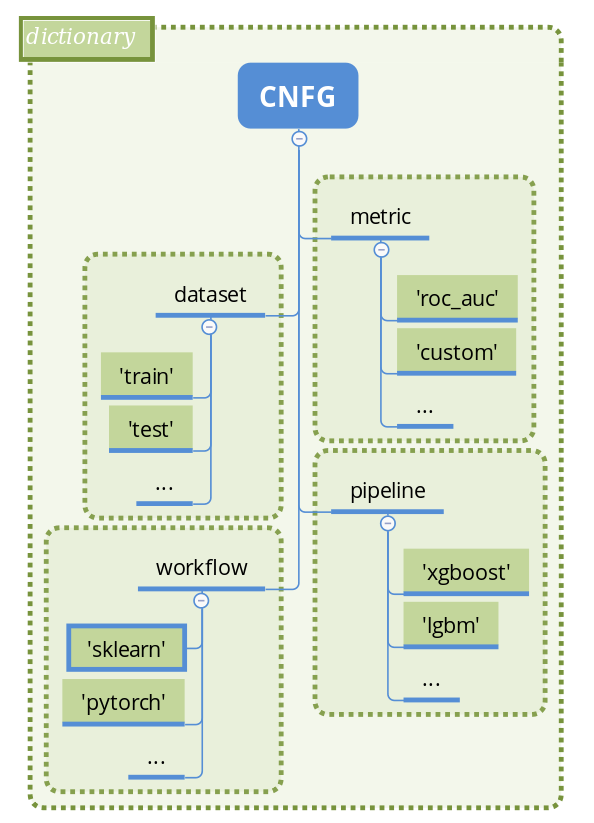
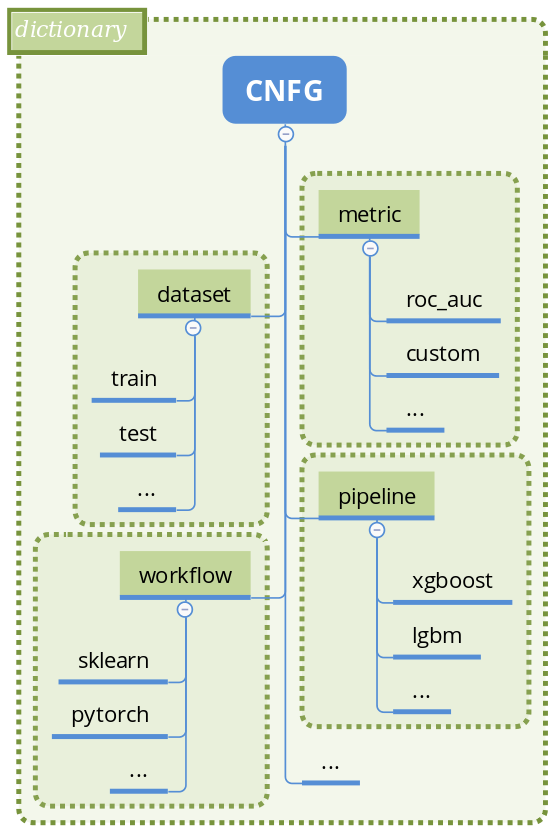
update readme scheme

Changed region(s): [[0.0, 0.0, 1.0, 1.0]]

diff --git a/README.md b/README.md
@@ -23,7 +23,9 @@ All parameters controlled from single Python configuration.
 <!--
 ![Workflow](https://github.com/nizaevka/mlshell/blob/master/docs/source/_static/images/scheme.png?raw=true)
 -->
+<p align="center">
 <img src="https://github.com/nizaevka/mlshell/blob/master/docs/source/_static/images/scheme_simple.png?raw=true" height="450" align="center">
+</p>
 
 For details, please refer to
  [Concepts](https://mlshell.readthedocs.io/en/latest/Concepts.html).
